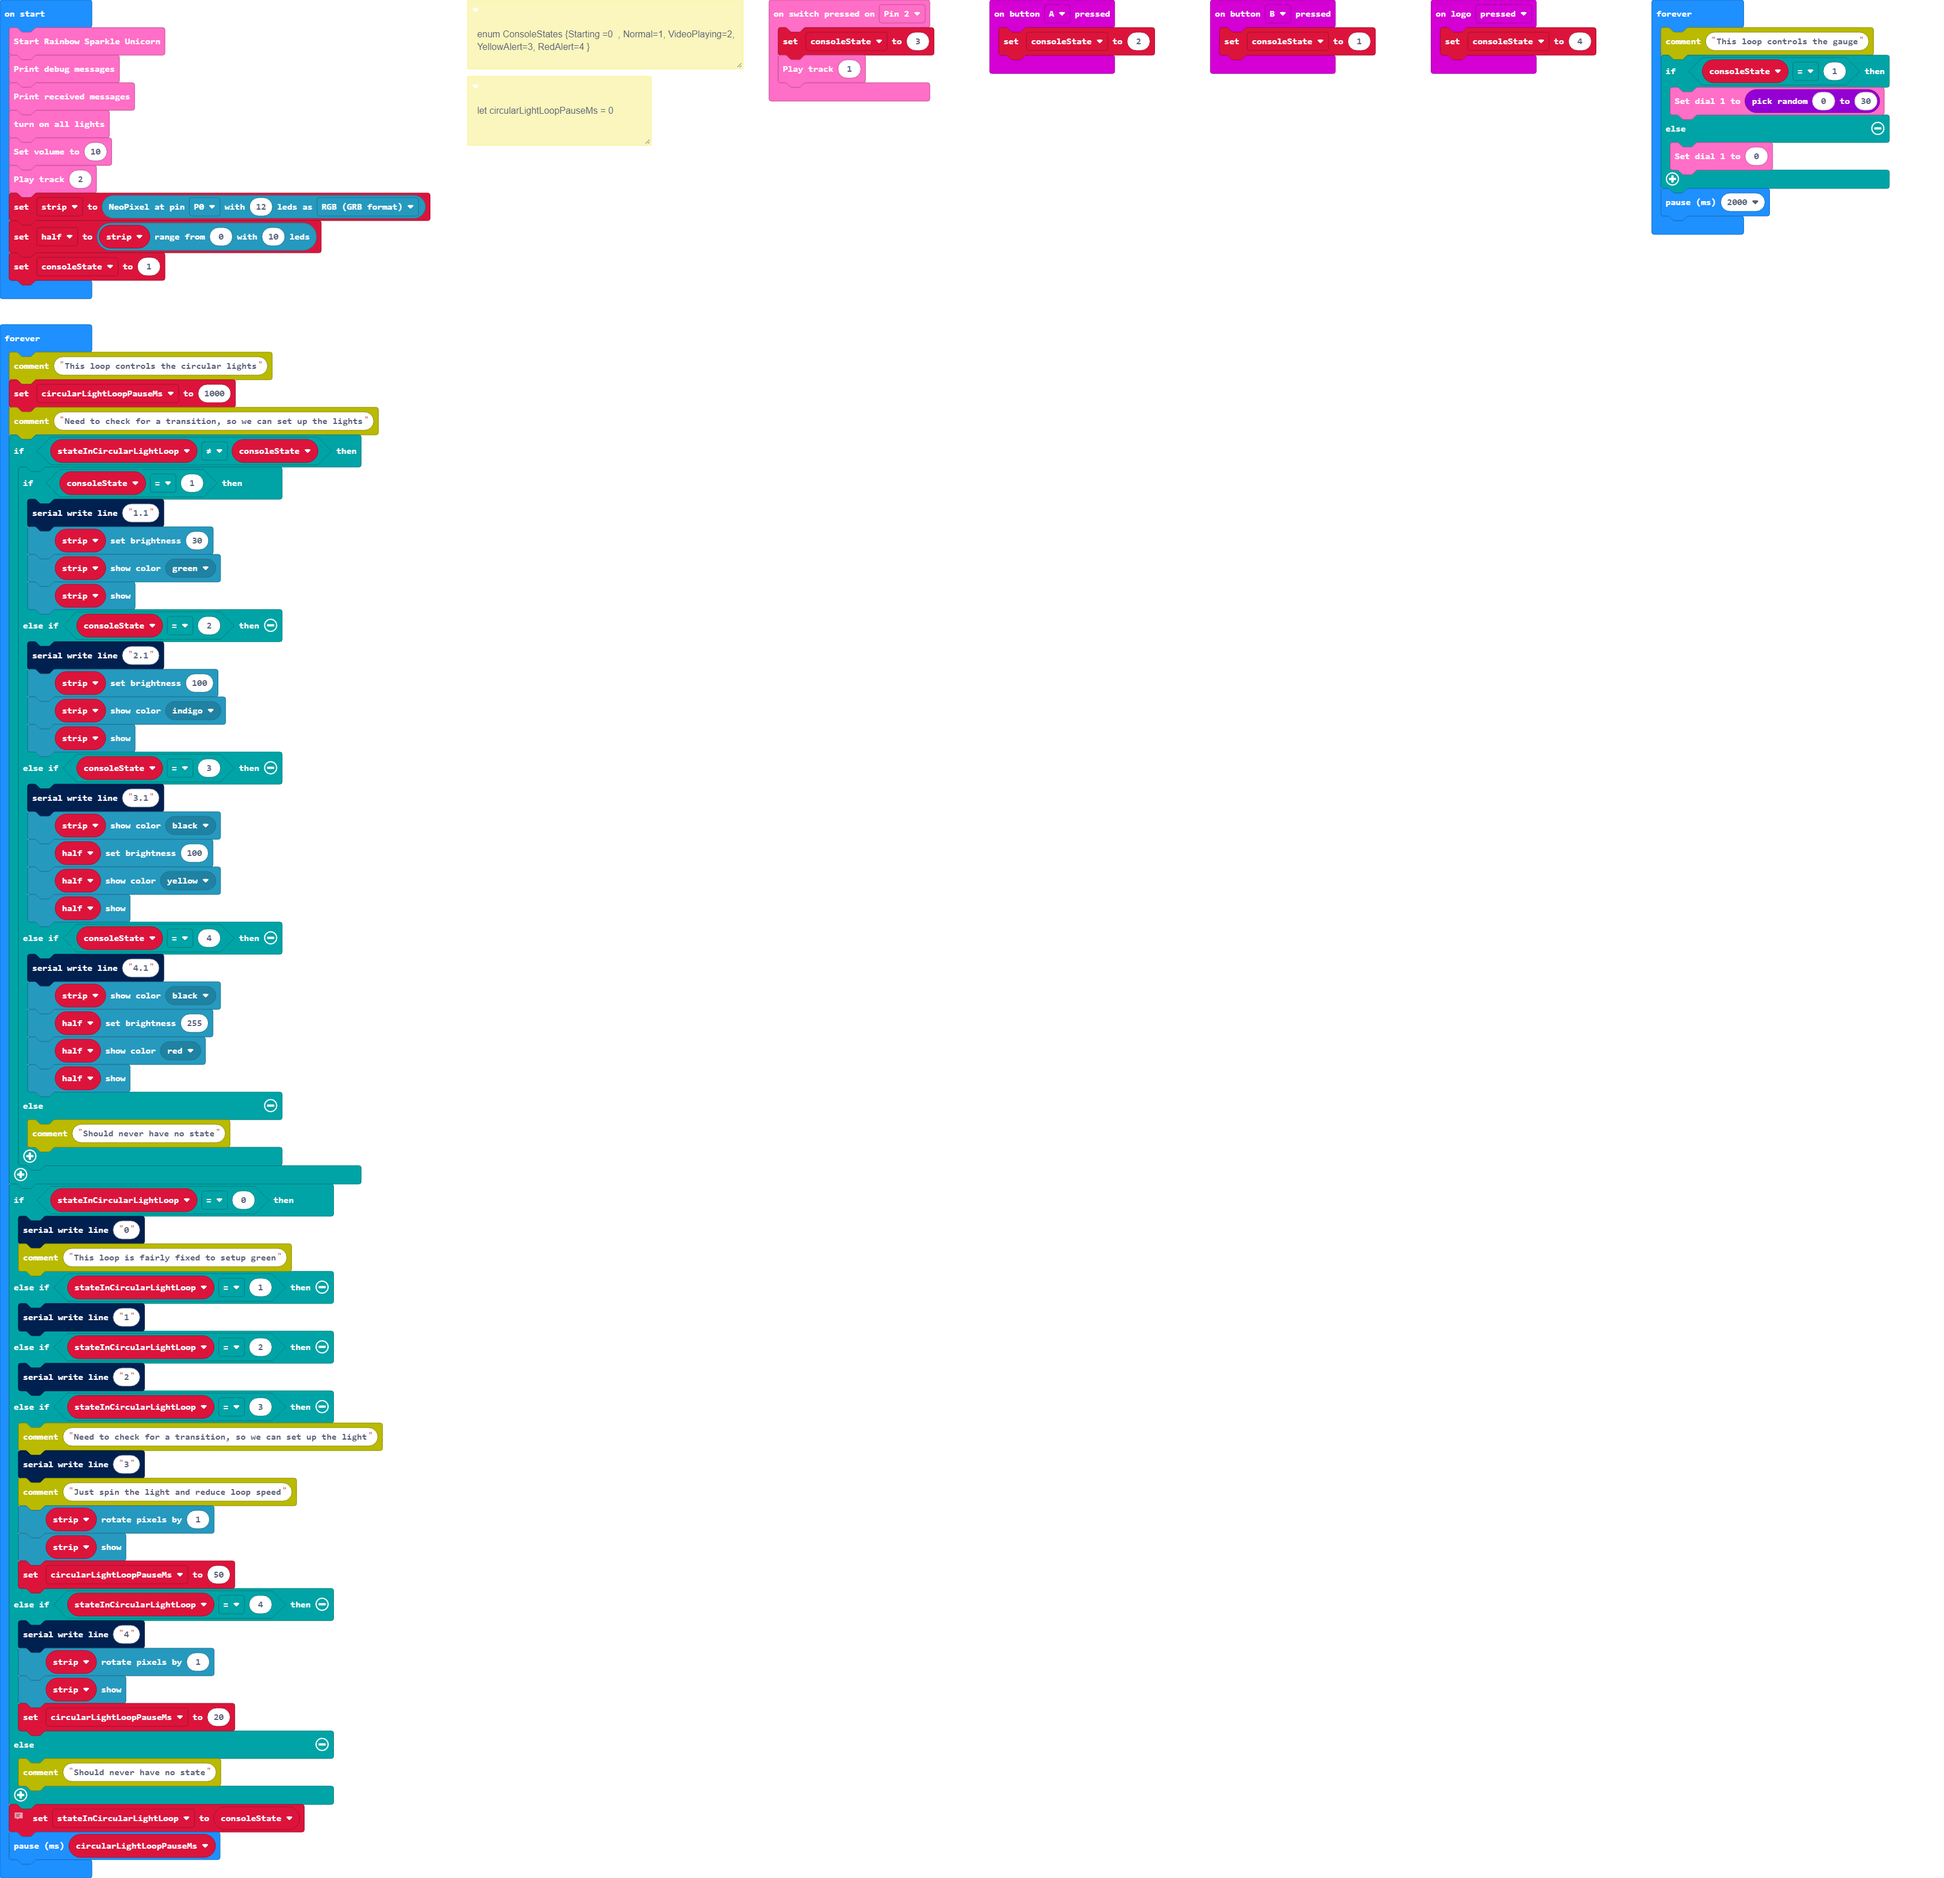
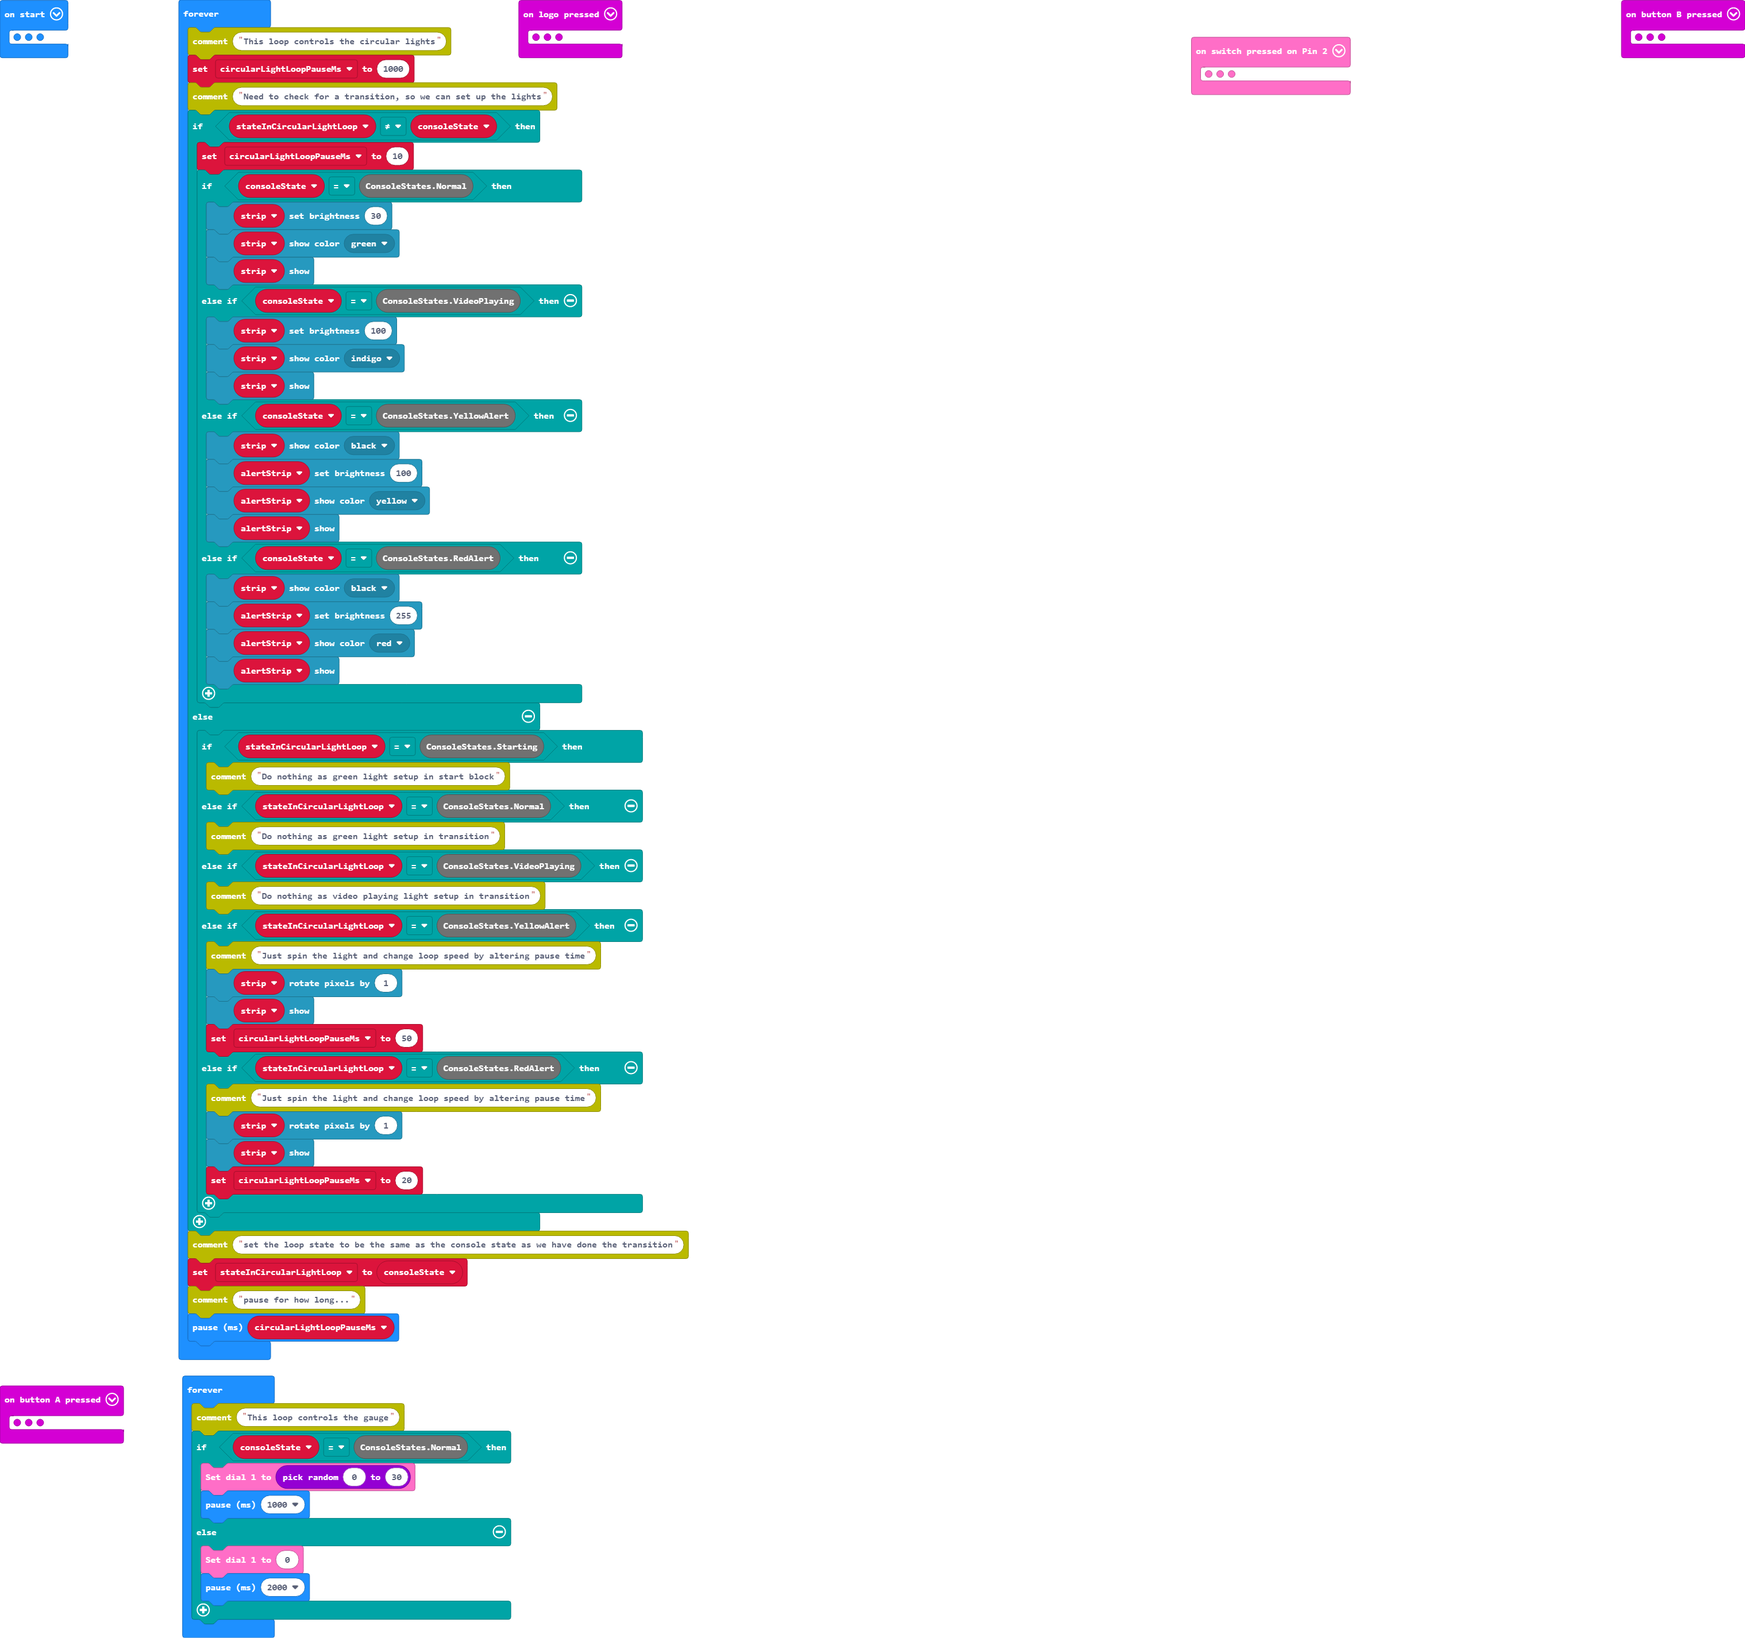
Update main.blocks, main.ts

Changed region(s): [[0.0, 0.0, 0.5881, 1.0], [0.619, 0.0, 1.0, 0.1248]]

diff --git a/main.ts b/main.ts
@@ -1,97 +1,88 @@
 RainbowSparkleUnicorn.Switch.onSwitchPressed(switchPins.P2, function () {
-    consoleState = 3
-    RainbowSparkleUnicorn.Sound.playTrack(1)
+    consoleState = ConsoleStates.YellowAlert
+RainbowSparkleUnicorn.Sound.playTrack(1)
 })
 input.onButtonPressed(Button.A, function () {
-    consoleState = 2
+    consoleState = ConsoleStates.VideoPlaying
 })
 input.onButtonPressed(Button.B, function () {
-    consoleState = 1
+    consoleState = ConsoleStates.Normal
 })
 input.onLogoEvent(TouchButtonEvent.Pressed, function () {
-    consoleState = 4
+    consoleState = ConsoleStates.RedAlert
 })
-/**
- * enum ConsoleStates {Starting =0  , Normal=1, VideoPlaying=2, YellowAlert=3, RedAlert=4 }
- */
-/**
- * let circularLightLoopPauseMs = 0
- */
-let stateInCircularLightLoop = 0
 let circularLightLoopPauseMs = 0
-let consoleState = 0
+enum ConsoleStates {Starting =0  , Normal=1, VideoPlaying=2, YellowAlert=3, RedAlert=4 }
+let stateInCircularLightLoop = ConsoleStates.Starting
+let consoleState = ConsoleStates.Starting
+let strip = neopixel.create(DigitalPin.P0, 12, NeoPixelMode.RGB)
+let alertStrip = strip.range(0, 10)
+strip.setBrightness(255)
+strip.showColor(neopixel.colors(NeoPixelColors.Green))
+strip.show()
 RainbowSparkleUnicorn.start()
 RainbowSparkleUnicorn.printDebugMessages()
 RainbowSparkleUnicorn.printReceivedMessages()
 RainbowSparkleUnicorn.Light.turnAllOn()
 RainbowSparkleUnicorn.Sound.setVolume(10)
 RainbowSparkleUnicorn.Sound.playTrack(2)
-let strip = neopixel.create(DigitalPin.P0, 12, NeoPixelMode.RGB)
-let half = strip.range(0, 10)
-consoleState = 1
-basic.forever(function () {
-    comment.comment("This loop controls the gauge")
-    if (consoleState == 1) {
-        RainbowSparkleUnicorn.Controls.dial1(randint(0, 30))
-    } else {
-        RainbowSparkleUnicorn.Controls.dial1(0)
-    }
-    basic.pause(2000)
-})
+consoleState = ConsoleStates.Normal
 basic.forever(function () {
     comment.comment("This loop controls the circular lights")
     circularLightLoopPauseMs = 1000
     comment.comment("Need to check for a transition, so we can set up the lights")
     if (stateInCircularLightLoop != consoleState) {
-        if (consoleState == 1) {
-            serial.writeLine("1.1")
+        circularLightLoopPauseMs = 10
+        if (consoleState == ConsoleStates.Normal) {
             strip.setBrightness(30)
             strip.showColor(neopixel.colors(NeoPixelColors.Green))
             strip.show()
-        } else if (consoleState == 2) {
-            serial.writeLine("2.1")
+        } else if (consoleState == ConsoleStates.VideoPlaying) {
             strip.setBrightness(100)
             strip.showColor(neopixel.colors(NeoPixelColors.Indigo))
             strip.show()
-        } else if (consoleState == 3) {
-            serial.writeLine("3.1")
+        } else if (consoleState == ConsoleStates.YellowAlert) {
             strip.showColor(neopixel.colors(NeoPixelColors.Black))
-            half.setBrightness(100)
-            half.showColor(neopixel.colors(NeoPixelColors.Yellow))
-            half.show()
-        } else if (consoleState == 4) {
-            serial.writeLine("4.1")
+            alertStrip.setBrightness(100)
+            alertStrip.showColor(neopixel.colors(NeoPixelColors.Yellow))
+            alertStrip.show()
+        } else if (consoleState == ConsoleStates.RedAlert) {
             strip.showColor(neopixel.colors(NeoPixelColors.Black))
-            half.setBrightness(255)
-            half.showColor(neopixel.colors(NeoPixelColors.Red))
-            half.show()
-        } else {
-            comment.comment("Should never have no state")
+            alertStrip.setBrightness(255)
+            alertStrip.showColor(neopixel.colors(NeoPixelColors.Red))
+            alertStrip.show()
+        }
+    } else {
+        if (stateInCircularLightLoop == ConsoleStates.Starting) {
+            comment.comment("Do nothing as green light setup in start block")
+        } else if (stateInCircularLightLoop == ConsoleStates.Normal) {
+            comment.comment("Do nothing as green light setup in transition")
+        } else if (stateInCircularLightLoop == ConsoleStates.VideoPlaying) {
+            comment.comment("Do nothing as video playing light setup in transition")
+        } else if (stateInCircularLightLoop == ConsoleStates.YellowAlert) {
+            comment.comment("Just spin the light and change loop speed by altering pause time")
+            strip.rotate(1)
+            strip.show()
+            circularLightLoopPauseMs = 50
+        } else if (stateInCircularLightLoop == ConsoleStates.RedAlert) {
+            comment.comment("Just spin the light and change loop speed by altering pause time")
+            strip.rotate(1)
+            strip.show()
+            circularLightLoopPauseMs = 20
         }
     }
-    if (stateInCircularLightLoop == 0) {
-        serial.writeLine("0")
-        comment.comment("This loop is fairly fixed to setup green")
-    } else if (stateInCircularLightLoop == 1) {
-        serial.writeLine("1")
-    } else if (stateInCircularLightLoop == 2) {
-        serial.writeLine("2")
-    } else if (stateInCircularLightLoop == 3) {
-        comment.comment("Need to check for a transition, so we can set up the light")
-        serial.writeLine("3")
-        comment.comment("Just spin the light and reduce loop speed")
-        strip.rotate(1)
-        strip.show()
-        circularLightLoopPauseMs = 50
-    } else if (stateInCircularLightLoop == 4) {
-        serial.writeLine("4")
-        strip.rotate(1)
-        strip.show()
-        circularLightLoopPauseMs = 20
-    } else {
-        comment.comment("Should never have no state")
-    }
-    // serial.writeLine("stateInCircularLightLoop: " + stateInCircularLightLoop + " consoleState: " + consoleState)
+    comment.comment("set the loop state to be the same as the console state as we have done the transition")
     stateInCircularLightLoop = consoleState
+    comment.comment("pause for how long...")
     basic.pause(circularLightLoopPauseMs)
+})
+basic.forever(function () {
+    comment.comment("This loop controls the gauge")
+    if (consoleState == ConsoleStates.Normal) {
+        RainbowSparkleUnicorn.Controls.dial1(randint(0, 30))
+        basic.pause(1000)
+    } else {
+        RainbowSparkleUnicorn.Controls.dial1(0)
+        basic.pause(2000)
+    }
 })
